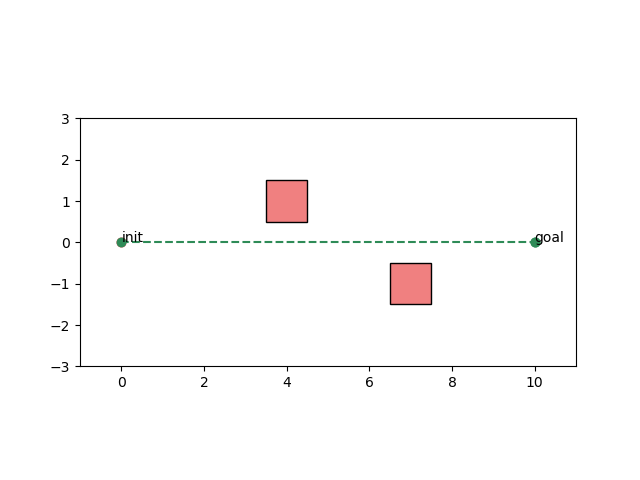
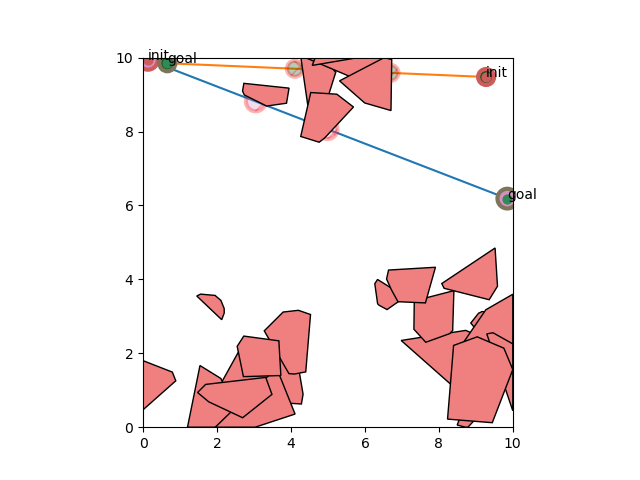
implemeted centralized alone without benchmark and boxplot

diff --git a/ws/hw8/MyCentralPlanner.cpp b/ws/hw8/MyCentralPlanner.cpp
@@ -1,21 +1,189 @@
 #include "MyMultiAgentPlanners.h"
+#include "HelpfulClass.h"
+#include <Eigen/Dense>
+#include <random>
+#include <limits>
+#include <vector>
+
+// Helper function for circle-polygon collision since it's missing from HelpfulClass.h
+namespace MotionPlanningHelpers {
+    // Checks the distance from a point to a line segment
+    double pointSegmentDistance(const Eigen::Vector2d& p, const Eigen::Vector2d& a, const Eigen::Vector2d& b, Eigen::Vector2d& closest_point) {
+        Eigen::Vector2d ab = b - a;
+        double t = (p - a).dot(ab) / ab.squaredNorm();
+        t = std::max(0.0, std::min(1.0, t)); // Clamp t to the segment
+        closest_point = a + t * ab;
+        return (p - closest_point).norm();
+    }
+
+    // Checks if a circle is in collision with a single convex polygon obstacle
+    bool isCircleInCollision(const Eigen::Vector2d& center, double radius, const amp::Obstacle2D& obstacle) {
+        // 1. Check if the circle's center is inside the polygon
+        if (CollisionChecker::isPointInCollision(center, {obstacle})) {
+            return true;
+        }
+
+        // 2. Check if the circle is close enough to any of the polygon's edges
+        const auto vertices = obstacle.verticesCCW();
+        for (size_t i = 0; i < vertices.size(); ++i) {
+            Eigen::Vector2d p1 = vertices[i];
+            Eigen::Vector2d p2 = vertices[(i + 1) % vertices.size()];
+            Eigen::Vector2d closest_point;
+            if (pointSegmentDistance(center, p1, p2, closest_point) < radius) {
+                return true;
+            }
+        }
+        return false;
+    }
+}
+
+// Helper function to check for collisions in a given high-dimensional configuration
+bool isConfigInCollision(const Eigen::VectorXd& q_config, const amp::MultiAgentProblem2D& problem) {
+    const int num_agents = problem.agent_properties.size();
+    
+    std::vector<Eigen::Vector2d> agent_positions;
+    for (int i = 0; i < num_agents; ++i) {
+        agent_positions.push_back(Eigen::Vector2d(q_config(2 * i), q_config(2 * i + 1)));
+    }
+
+    // 1. Check for agent-obstacle collisions
+    for (int i = 0; i < num_agents; ++i) {
+        double radius = problem.agent_properties[i].radius;
+        for (const amp::Obstacle2D& obstacle : problem.obstacles) {
+            if (MotionPlanningHelpers::isCircleInCollision(agent_positions[i], radius, obstacle)) {
+                return true;
+            }
+        }
+    }
+
+    // 2. Check for agent-agent collisions
+    for (int i = 0; i < num_agents; ++i) {
+        for (int j = i + 1; j < num_agents; ++j) {
+            double dist_sq = (agent_positions[i] - agent_positions[j]).squaredNorm();
+            double required_dist = problem.agent_properties[i].radius + problem.agent_properties[j].radius;
+            if (dist_sq < required_dist * required_dist) {
+                return true;
+            }
+        }
+    }
+    return false;
+}
+
+// Helper to check a segment between two high-dimensional configurations
+bool isSegmentInCollision(const Eigen::VectorXd& q_start, const Eigen::VectorXd& q_end, const amp::MultiAgentProblem2D& problem, int num_checks = 10) {
+    for (int i = 1; i <= num_checks; ++i) {
+        double t = static_cast<double>(i) / num_checks;
+        Eigen::VectorXd q_interp = (1.0 - t) * q_start + t * q_end;
+        if (isConfigInCollision(q_interp, problem)) {
+            return true;
+        }
+    }
+    return false;
+}
 
 amp::MultiAgentPath2D MyCentralPlanner::plan(const amp::MultiAgentProblem2D& problem) {
-    amp::MultiAgentPath2D path;
-    for (const amp::CircularAgentProperties& agent : problem.agent_properties) {
-        amp::Path2D agent_path;
-        agent_path.waypoints = {agent.q_init, agent.q_goal};
-        path.agent_paths.push_back(agent_path);
+    const int num_agents = problem.agent_properties.size();
+    
+    amp::MultiAgentPath2D multi_agent_path;
+    multi_agent_path.agent_paths.resize(num_agents);
+
+    if (num_agents == 0) return multi_agent_path;
+    
+    const int c_space_dim = 2 * num_agents;
+    const int n_iterations = 7500;
+    const double step_size = 0.5;
+    const double p_goal = 0.05;
+    const double epsilon = 0.25;
+
+    Eigen::VectorXd q_init(c_space_dim), q_goal(c_space_dim);
+    for (int i = 0; i < num_agents; ++i) {
+        q_init.segment<2>(2 * i) = problem.agent_properties[i].q_init;
+        q_goal.segment<2>(2 * i) = problem.agent_properties[i].q_goal;
     }
-    return path;
+
+    std::map<amp::Node, Eigen::VectorXd> tree_nodes;
+    std::map<amp::Node, amp::Node> parent_map;
+    amp::Node node_counter = 1;
+    tree_nodes[0] = q_init;
+    
+    std::random_device rd;
+    // *** FIX: Corrected the typo from mt19137 to mt19937 ***
+    std::mt19937 gen(rd()); 
+    std::uniform_real_distribution<> goal_dist(0.0, 1.0);
+    std::uniform_real_distribution<> x_dist(problem.x_min, problem.x_max);
+    std::uniform_real_distribution<> y_dist(problem.y_min, problem.y_max);
+
+    amp::Node goal_tree_node = -1;
+
+    for (int k = 0; k < n_iterations; ++k) {
+        Eigen::VectorXd q_rand(c_space_dim);
+        if (goal_dist(gen) < p_goal) {
+            q_rand = q_goal;
+        } else {
+            for (int i = 0; i < num_agents; ++i) {
+                q_rand.segment<2>(2 * i) = Eigen::Vector2d(x_dist(gen), y_dist(gen));
+            }
+        }
+
+        amp::Node nearest_node = 0;
+        double min_dist_sq = std::numeric_limits<double>::max();
+        for (const auto& [node, pos] : tree_nodes) {
+            double dist_sq = (pos - q_rand).squaredNorm();
+            if (dist_sq < min_dist_sq) {
+                min_dist_sq = dist_sq;
+                nearest_node = node;
+            }
+        }
+
+        Eigen::VectorXd q_near = tree_nodes.at(nearest_node);
+        Eigen::VectorXd dir = q_rand - q_near;
+        double dist = dir.norm();
+        Eigen::VectorXd q_new = q_near + (dist <= step_size ? dir : (dir / dist) * step_size);
+
+        if (!isSegmentInCollision(q_near, q_new, problem)) {
+            amp::Node new_node = node_counter++;
+            tree_nodes[new_node] = q_new;
+            parent_map[new_node] = nearest_node;
+
+            if ((q_new - q_goal).norm() < epsilon) {
+                goal_tree_node = new_node;
+                break;
+            }
+        }
+    }
+
+    if (goal_tree_node != -1) {
+        for (int i = 0; i < num_agents; ++i) {
+            multi_agent_path.agent_paths[i].waypoints.clear();
+        }
+
+        std::vector<Eigen::VectorXd> path_configs;
+        amp::Node current_node = goal_tree_node;
+        while (true) {
+            path_configs.push_back(tree_nodes.at(current_node));
+            if (current_node == 0) break;
+            current_node = parent_map.at(current_node);
+        }
+        std::reverse(path_configs.begin(), path_configs.end());
+
+        for (const auto& config : path_configs) {
+            for (int i = 0; i < num_agents; ++i) {
+                multi_agent_path.agent_paths[i].waypoints.push_back(config.segment<2>(2 * i));
+            }
+        }
+        for (int i = 0; i < num_agents; ++i) {
+            multi_agent_path.agent_paths[i].waypoints.push_back(q_goal.segment<2>(2 * i));
+        }
+    }
+
+    return multi_agent_path;
 }
 
 amp::MultiAgentPath2D MyDecentralPlanner::plan(const amp::MultiAgentProblem2D& problem) {
     amp::MultiAgentPath2D path;
-    for (const amp::CircularAgentProperties& agent : problem.agent_properties) {
-        amp::Path2D agent_path;
-        agent_path.waypoints = {agent.q_init, agent.q_goal};
-        path.agent_paths.push_back(agent_path);
+    path.agent_paths.resize(problem.agent_properties.size());
+    for (size_t i = 0; i < problem.agent_properties.size(); ++i) {
+        path.agent_paths[i].waypoints = {problem.agent_properties[i].q_init, problem.agent_properties[i].q_goal};
     }
     return path;
 }

diff --git a/ws/hw8/main.cpp b/ws/hw8/main.cpp
@@ -22,7 +22,7 @@ int main(int argc, char** argv) {
     // Initializing workspace 1 with 3 agents
     amp::RNG::seed(amp::RNG::randiUnbounded());
     MultiAgentPath2D path;
-    MultiAgentProblem2D problem = HW8::getWorkspace1(3);
+    MultiAgentProblem2D problem = HW8::getWorkspace1(2);
     std::vector<std::vector<Eigen::Vector2d>> collision_states;
 
     // Solve using a centralized approach
@@ -38,7 +38,7 @@ int main(int argc, char** argv) {
     Visualizer::makeFigure(problem, path, collision_states);
 
     // Visualize and grade methods
-    Visualizer::showFigures();
+    Visualizer::saveFigures();
     HW8::grade<MyCentralPlanner, MyDecentralPlanner>("firstName.lastName@colorado.edu", argc, argv, std::make_tuple(), std::make_tuple());
     return 0;
 }
